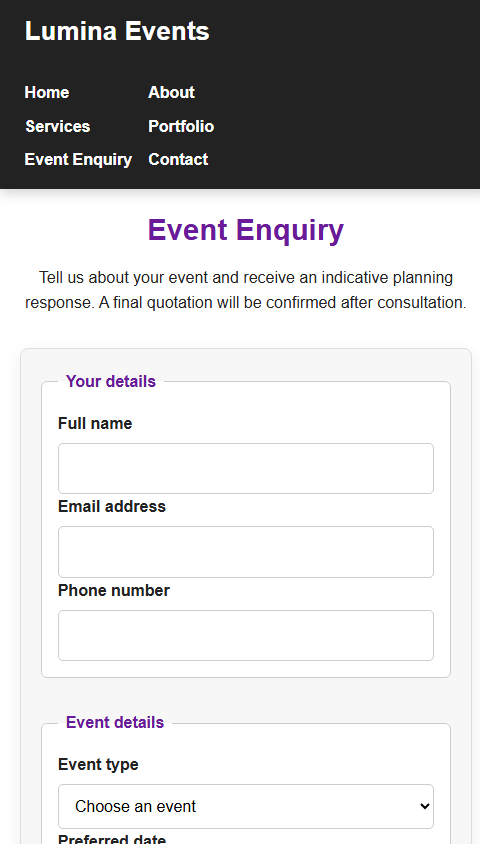
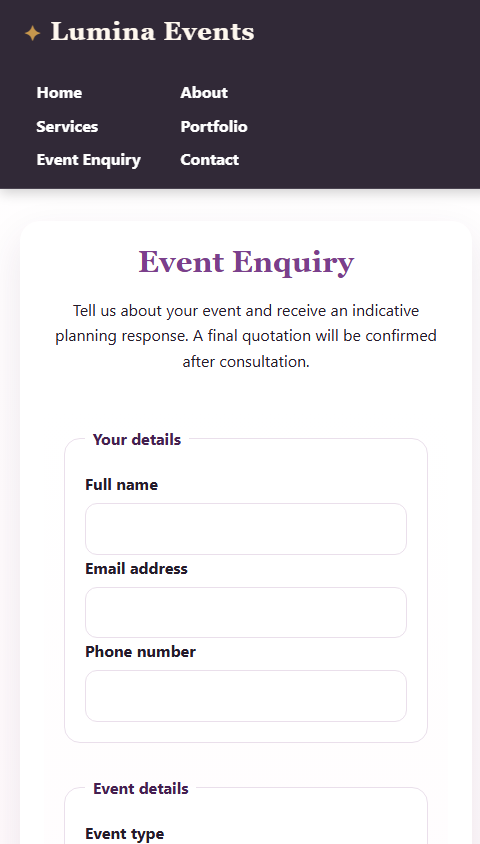
Polish Lumina Events visual experience

diff --git a/css/style.css b/css/style.css
@@ -524,3 +524,145 @@ form button:active { transform: translateY(1px); }
     nav, main, main > section, #hero, #cta { width: 100%; max-width: 100%; }
     #hero h2, #hero p { max-width: 100%; }
 }
+
+/* =========================================
+   LUMINA VISUAL POLISH
+   ========================================= */
+:root {
+    --purple: #7b3f8c;
+    --purple-dark: #452050;
+    --purple-soft: #f7eff8;
+    --ink: #241c2a;
+    --muted: #6f6574;
+    --surface: #fffdfb;
+    --border: #eadfeb;
+    --gold: #c7974d;
+    --shadow: 0 1rem 2.5rem rgb(69 32 80 / 10%);
+}
+
+body {
+    background: linear-gradient(180deg, #fff 0%, #fffafc 55%, #fff 100%);
+    font-family: Inter, ui-sans-serif, system-ui, -apple-system, "Segoe UI", sans-serif;
+    color: var(--ink);
+}
+
+h1, h2, h3, h4, h5, h6 { font-family: Georgia, "Times New Roman", serif; }
+
+header {
+    position: sticky;
+    top: 0;
+    z-index: 5;
+    min-height: 5.25rem;
+    padding: 1rem clamp(1.25rem, 5vw, 5rem);
+    background: rgb(36 28 42 / 94%);
+    backdrop-filter: blur(14px);
+    border-bottom: 1px solid rgb(255 255 255 / 12%);
+}
+
+header h1 {
+    color: #fff8ef;
+    font-size: clamp(1.55rem, 2.5vw, 2rem);
+    letter-spacing: 0.04em;
+}
+
+header h1::before { content: "✦"; margin-right: 0.55rem; color: var(--gold); font-size: 0.8em; }
+nav a { padding: 0.5rem 0.75rem; border-radius: 999px; transition: color 180ms ease, background-color 180ms ease, transform 180ms ease; }
+nav a:hover, nav a:focus-visible { background: rgb(255 255 255 / 12%); color: #fff8ef; transform: translateY(-1px); }
+
+main { width: min(92%, 1180px); padding-top: clamp(2rem, 4vw, 4rem); }
+/* Content remains visible immediately for fast loading, assistive technology and evidence capture. */
+
+#hero {
+    position: relative;
+    min-height: 31rem;
+    display: grid;
+    place-items: center;
+    overflow: hidden;
+    padding: clamp(3rem, 9vw, 7rem) 2rem;
+    color: #fff;
+    text-align: left;
+    background: linear-gradient(90deg, rgb(36 28 42 / 86%), rgb(69 32 80 / 58%)), url("../images/wedding-reception.jpg") center / cover;
+    box-shadow: var(--shadow);
+}
+#hero::after { content: ""; position: absolute; inset: auto 0 0; height: 0.35rem; background: linear-gradient(90deg, var(--gold), #f2d39d, var(--gold)); }
+.hero-content { width: min(100%, 720px); margin-right: auto; }
+.eyebrow { color: #f2d39d; font-size: 0.8rem; font-weight: 800; letter-spacing: 0.18em; text-transform: uppercase; }
+#hero h2 { max-width: 650px; font-size: clamp(2.5rem, 6vw, 5.2rem); line-height: 1.02; }
+#hero p:not(.eyebrow) { max-width: 560px; color: #f8eefb; font-size: clamp(1.05rem, 2vw, 1.3rem); }
+#hero a, #cta a, form button { border: 1px solid transparent; border-radius: 999px; background: var(--gold); box-shadow: 0 0.5rem 1rem rgb(36 28 42 / 18%); transition: transform 180ms ease, background-color 180ms ease, box-shadow 180ms ease; }
+#hero a:hover, #cta a:hover, form button:hover { background: #e0b86f; color: var(--ink); transform: translateY(-2px); box-shadow: 0 0.75rem 1.25rem rgb(36 28 42 / 20%); }
+
+#about-preview, #testimonials { padding: clamp(2rem, 4vw, 3.5rem); border-radius: 1.5rem; background: #fff; box-shadow: var(--shadow); }
+#about-preview h2, #services-preview > h2, #why-us h2, #portfolio-preview > h2, #testimonials h2, #faq h2 { color: var(--purple-dark); font-size: clamp(1.9rem, 3vw, 2.6rem); }
+#about-preview a, #services-preview > a, #portfolio-preview > a { display: inline-block; margin-top: 0.5rem; font-weight: 800; }
+
+#services-preview, #portfolio-preview { display: grid; grid-template-columns: repeat(3, 1fr); gap: 1.25rem; }
+#services-preview > h2, #portfolio-preview > h2 { grid-column: 1 / -1; margin-bottom: 0.25rem; }
+#services-preview article, #portfolio-preview article { display: block; width: auto; margin: 0; padding: 0 0 1.3rem; overflow: hidden; border: 1px solid var(--border); border-radius: 1.25rem; background: #fff; box-shadow: var(--shadow); transition: transform 180ms ease, box-shadow 180ms ease; }
+#services-preview article:hover, #portfolio-preview article:hover { transform: translateY(-5px); box-shadow: 0 1.25rem 3rem rgb(69 32 80 / 16%); }
+#services-preview article img, #portfolio-preview article img { width: 100%; height: 11rem; object-fit: cover; }
+#services-preview article h3, #services-preview article p, #portfolio-preview article h3, #portfolio-preview article p { margin-right: 1.3rem; margin-left: 1.3rem; }
+#services-preview article h3, #portfolio-preview article h3 { margin-top: 1.2rem; }
+
+#why-us { padding: clamp(2rem, 4vw, 3rem); border: 1px solid var(--border); border-radius: 1.5rem; background: linear-gradient(135deg, var(--purple-soft), #fff); box-shadow: var(--shadow); }
+#why-us li { margin: 0.7rem 0; padding-left: 0.4rem; }
+#why-us li::marker { color: var(--gold); }
+#testimonials blockquote { margin: 1rem auto; border-left-color: var(--gold); border-radius: 0 1rem 1rem 0; background: var(--purple-soft); color: var(--purple-dark); font-style: italic; }
+#cta { margin-top: 1rem; padding: clamp(2.5rem, 6vw, 4rem) 2rem; background: linear-gradient(135deg, var(--purple-dark), var(--purple)); color: #fff; box-shadow: var(--shadow); }
+#cta h2 { color: #fff; }
+#cta p { color: #f7eefa; }
+
+#faq { max-width: 900px; }
+#faq details { padding: 1.25rem 1.5rem; border-color: var(--border); border-radius: 1rem; background: #fff; box-shadow: 0 0.5rem 1.25rem rgb(69 32 80 / 6%); }
+#faq summary { color: var(--purple-dark); }
+
+.about-page main > section, .services-page main > section, .portfolio-page main > section, .contact-page main > section, .booking-page main > section { border-color: var(--border); border-radius: 1.25rem; background: #fff; box-shadow: var(--shadow); }
+.about-page main > section { max-width: 980px; padding: clamp(1.5rem, 4vw, 3rem); }
+.about-image { width: 100%; height: clamp(12rem, 30vw, 22rem); margin: 0 0 2rem; object-fit: cover; border-radius: 1rem; }
+.services-page main { grid-template-columns: repeat(3, 1fr); gap: 1.25rem; }
+.services-page main > h2 { font-size: clamp(2rem, 4vw, 3rem); }
+.services-page main > label, .services-page main > input { grid-column: 1 / -1; }
+.services-page main > input, .portfolio-page main input { margin: 0 0 1rem; padding: 0.9rem 1rem; border: 1px solid var(--border); border-radius: 999px; background: #fff; }
+.services-page main > section { padding: 0 0 1.5rem; overflow: hidden; transition: transform 180ms ease; }
+.services-page main > section:hover { transform: translateY(-4px); }
+.service-image { width: 100%; height: 10rem; margin-bottom: 1.25rem; object-fit: cover; }
+.services-page main > section h3, .services-page main > section p { margin-right: 1.5rem; margin-left: 1.5rem; }
+.services-page main > section h3 { color: var(--purple-dark); }
+
+.portfolio-page main > section { padding: clamp(1.5rem, 4vw, 3rem); }
+.portfolio-page main > section > h2 { font-size: clamp(2rem, 4vw, 3rem); }
+.portfolio-page figure { padding: 0; overflow: hidden; border: 1px solid var(--border); border-radius: 1rem; background: #fff; box-shadow: var(--shadow); }
+.portfolio-page figure img { aspect-ratio: 4 / 3; border-radius: 0; transition: transform 350ms ease, filter 350ms ease; }
+.gallery-item:hover img { transform: scale(1.06); filter: saturate(1.08); }
+.portfolio-page figcaption { padding: 1rem; color: var(--purple-dark); }
+
+.booking-page main > section { max-width: 900px; padding: clamp(1.5rem, 4vw, 3rem); }
+form { border: 0; background: linear-gradient(180deg, #fff, #fffafc); box-shadow: none; }
+fieldset { padding: 1.25rem; border-color: var(--border); border-radius: 1rem; }
+legend { color: var(--purple-dark); }
+form input, form select, form textarea { border-color: var(--border); border-radius: 0.75rem; background: #fff; }
+form button { padding: 0.9rem 1.6rem; }
+.contact-page main { align-items: start; }
+.contact-page main > section { padding: clamp(1.5rem, 4vw, 2.25rem); }
+.map { min-height: 24rem; border-radius: 1rem; box-shadow: inset 0 0 0 1px var(--border); }
+
+.lightbox { background: rgb(36 28 42 / 88%); backdrop-filter: blur(6px); }
+.lightbox-content { width: min(92vw, 820px); padding: 0.75rem; border-radius: 1.25rem; }
+.lightbox img { max-height: 75vh; object-fit: contain; border-radius: 0.75rem; }
+.lightbox-close { top: 0.75rem; right: 1rem; width: 2.3rem; height: 2.3rem; border-radius: 50%; background: rgb(255 255 255 / 88%); color: var(--purple-dark); }
+
+footer { margin-top: 2rem; padding: 2rem 5%; background: var(--ink); color: #eadfeb; }
+
+@media (max-width: 48rem) {
+    header { position: relative; }
+    #hero { min-height: 27rem; text-align: center; }
+    .hero-content { margin: 0 auto; }
+    #services-preview, #portfolio-preview, .services-page main { grid-template-columns: 1fr; }
+    #services-preview > h2, #portfolio-preview > h2 { margin-bottom: 0; }
+    #services-preview article, #portfolio-preview article { width: 100%; }
+    .services-page main > section { width: 100%; margin: 0; }
+}
+
+@media (prefers-reduced-motion: reduce) {
+    *, *::before, *::after { scroll-behavior: auto !important; animation-duration: 0.01ms !important; transition-duration: 0.01ms !important; }
+}

diff --git a/services.html b/services.html
@@ -43,26 +43,31 @@
         <input type="search" id="service-search" placeholder="Search weddings, birthdays or corporate events">
 
         <section data-service-card="wedding planning venue decor catering entertainment coordination">
+            <img class="service-image" src="images/wedding-reception.jpg" alt="Wedding reception styling" width="1200" height="800" loading="lazy">
             <h3>Wedding Planning</h3>
             <p>Complete wedding planning including venue selection, décor, catering, entertainment and coordination.</p>
         </section>
 
         <section data-service-card="corporate events conferences awards business launches functions">
+            <img class="service-image" src="images/corporate-conference.jpg" alt="Corporate conference setup" width="1200" height="800" loading="lazy">
             <h3>Corporate Events</h3>
             <p>Professional conferences, award evenings, business launches and company functions.</p>
         </section>
 
         <section data-service-card="birthday celebrations parties themes entertainment decorations">
+            <img class="service-image" src="images/birthday-party.jpg" alt="Birthday party decoration" width="800" height="1200" loading="lazy">
             <h3>Birthday Celebrations</h3>
             <p>Creative birthday parties with personalised themes, entertainment and decorations.</p>
         </section>
 
         <section data-service-card="baby showers planning decor catering">
+            <img class="service-image" src="images/birthday-party.jpg" alt="Celebration table styling" width="800" height="1200" loading="lazy">
             <h3>Baby Showers</h3>
             <p>Elegant baby shower planning with customised décor and catering services.</p>
         </section>
 
         <section data-service-card="graduation celebrations academic achievements events">
+            <img class="service-image" src="images/corporate-conference.jpg" alt="Formal event venue setup" width="1200" height="800" loading="lazy">
             <h3>Graduation Celebrations</h3>
             <p>Celebrate academic achievements with professionally organised graduation events.</p>
         </section>

diff --git a/index.html b/index.html
@@ -60,7 +60,8 @@
         <!-- Hero Section -->
 
         <section id="hero">
-
+            <div class="hero-content">
+            <p class="eyebrow">Thoughtful planning · Beautiful details · Memorable moments</p>
             <h2>Creating Extraordinary Events</h2>
 
             <p>
@@ -69,6 +70,7 @@
             </p>
 
             <a href="enquiry.html">Plan Your Event</a>
+            </div>
 
         </section>
 
@@ -97,6 +99,8 @@
 
             <article>
 
+                <img src="images/wedding-reception.jpg" alt="Elegant wedding reception table styling" width="1200" height="800" loading="lazy">
+
                 <h3>Wedding Planning</h3>
 
                 <p>
@@ -107,6 +111,8 @@
 
             <article>
 
+                <img src="images/corporate-conference.jpg" alt="Professional corporate conference setup" width="1200" height="800" loading="lazy">
+
                 <h3>Corporate Events</h3>
 
                 <p>
@@ -116,6 +122,8 @@
             </article>
 
             <article>
+
+                <img src="images/birthday-party.jpg" alt="Colourful birthday celebration decor" width="800" height="1200" loading="lazy">
 
                 <h3>Private Celebrations</h3>
 
@@ -159,6 +167,8 @@
 
             <article>
 
+                <img src="images/wedding-reception.jpg" alt="Luxury wedding reception example" width="1200" height="800" loading="lazy">
+
                 <h3>Luxury Wedding</h3>
 
                 <p>
@@ -169,6 +179,8 @@
 
             <article>
 
+                <img src="images/corporate-conference.jpg" alt="Corporate gala example" width="1200" height="800" loading="lazy">
+
                 <h3>Corporate Gala</h3>
 
                 <p>
@@ -178,6 +190,8 @@
             </article>
 
             <article>
+
+                <img src="images/birthday-party.jpg" alt="Birthday celebration example" width="800" height="1200" loading="lazy">
 
                 <h3>Birthday Celebration</h3>
 

diff --git a/about.html b/about.html
@@ -41,6 +41,8 @@
 
             <h2>About Lumina Events</h2>
 
+            <img class="about-image" src="images/wedding-reception.jpg" alt="Elegant event table styling with flowers and candlelight" width="1200" height="800">
+
             <p>
                 Lumina Events is a professional event planning company dedicated to
                 creating memorable experiences for every client. We specialise in

diff --git a/README.md b/README.md
@@ -75,7 +75,7 @@ Lumina/
 - TutorialsPoint. 2018. *HTML5 – Basic Syntax.*
 - Xoaxdotnet. 2020. *HTML Lesson 27: Deprecated Elements.*
 - Yusuf Shakeel. 2017. *HTML | Block and Inline Elements.*
-- Gallery assets: original self-contained SVG illustrations created for this coursework and stored in `images/`; no external photographs, icons or fonts are embedded.
+- Gallery assets: locally stored event photographs are credited in `images/photo-credits.md`; the gallery labels them as illustrative examples rather than confirmed client work.
 - AI/tool use: ChatGPT/Codex assisted with rubric auditing, documentation wording and test planning. All project files and results were reviewed and verified against the local implementation before commit.
 
 ## Changelog
@@ -97,6 +97,13 @@ Lumina/
 - Added a custom `404.html` page for invalid routes.
 - Added Open Graph metadata and a keyboard-friendly FAQ accordion on the home page.
 - Replaced the portfolio placeholders with locally stored event photographs and added `images/photo-credits.md` with source and licence information.
+
+### Part 3 visual polish — 8 November 2026
+
+- Refined the shared visual system with a premium purple, cream and gold palette, stronger typography, rounded cards, depth, focus states and clearer navigation.
+- Added the credited event imagery to the homepage service and portfolio previews, the About page and the Services page while preserving the existing folder structure.
+- Improved the homepage hero, calls to action, service cards, portfolio cards, forms, map panel, lightbox and mobile layouts.
+- Refreshed all desktop, tablet and mobile evidence screenshots and updated the editable Portfolio of Evidence with the new screenshots.
 
 ## Part 3 evidence
 
